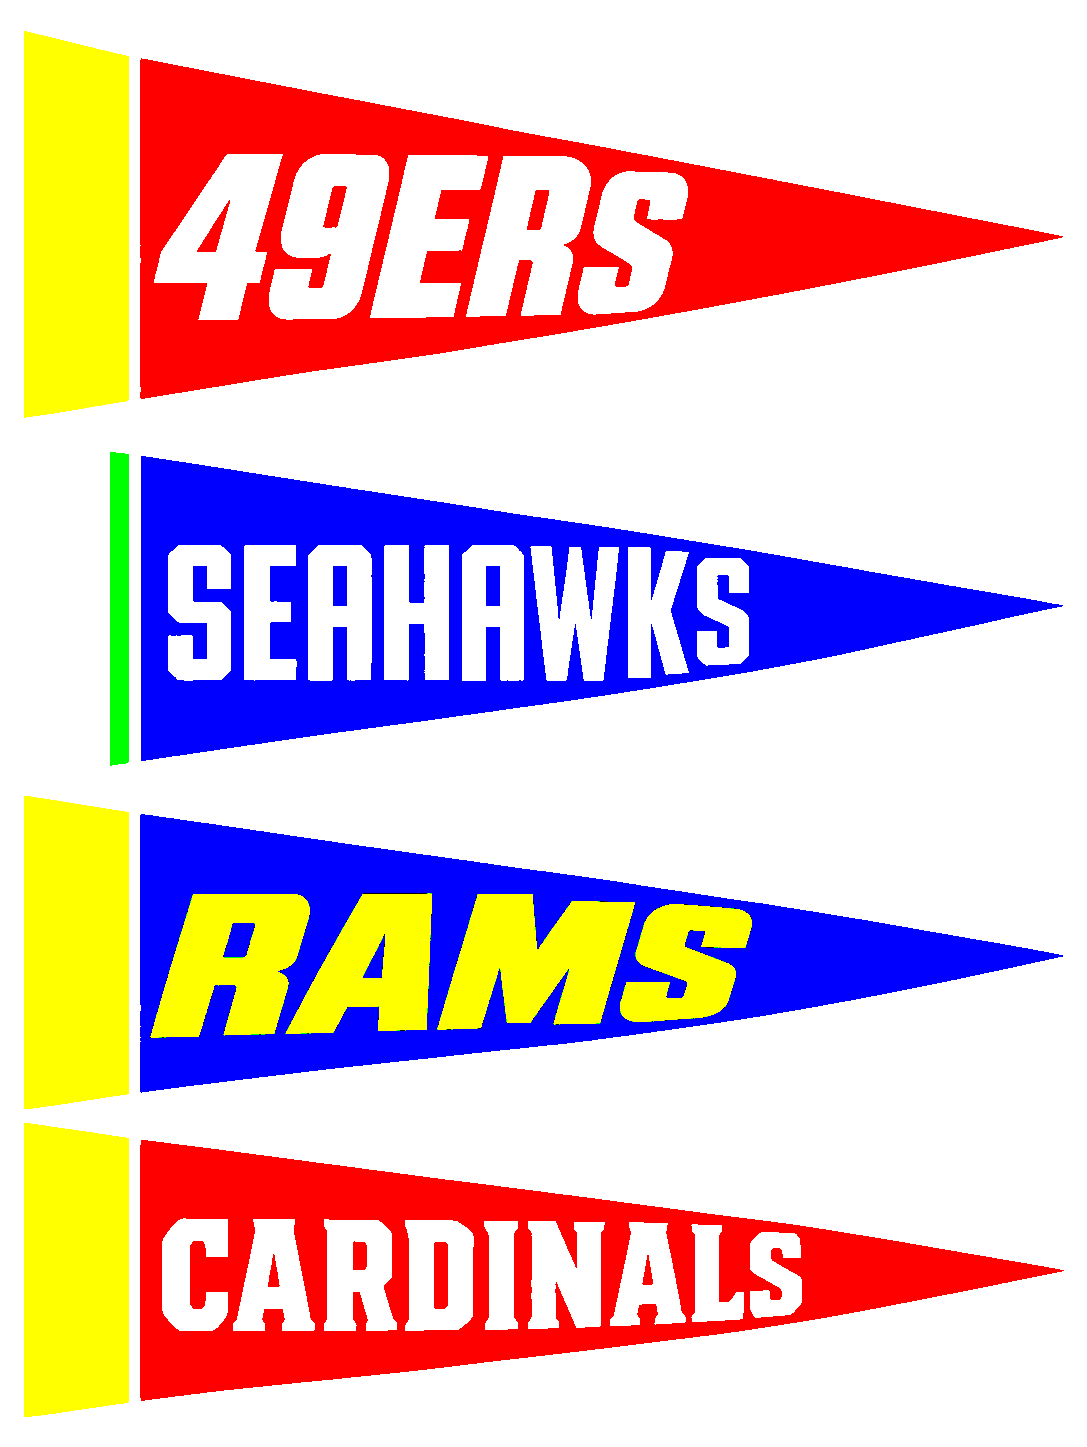
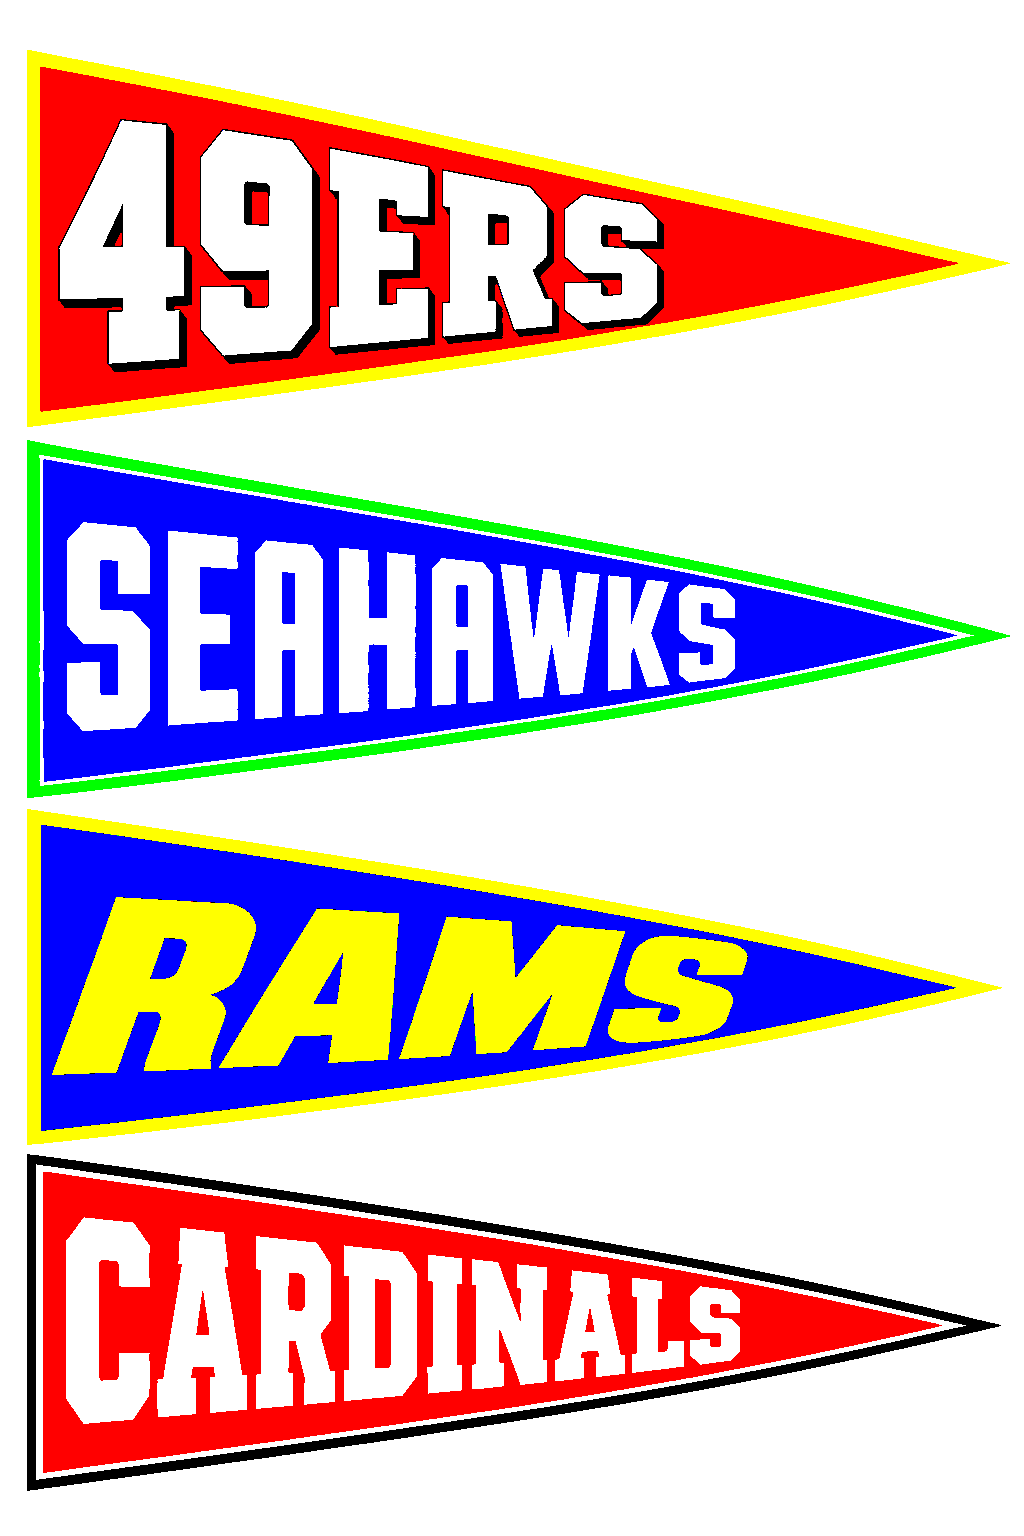
Refine text pennants with vintage lettering and team-colored edging

diff --git a/render_nfl.py b/render_nfl.py
@@ -319,13 +319,13 @@ def load_pennant(abbr: str, style: str = "illustrated") -> Image.Image:
     uniform footprint.
     """
     if style == "text":
-        # Use only the triangular fields, excluding the left hoist bands and
-        # their white separators. Keep the lettering from the source unchanged.
+        # Refined text-only triangles with team-specific lettering and narrow
+        # perimeter piping. There are no separate left hoist bands or blocks.
         boxes = {
-            "SF": (142, 58, 1067, 400),
-            "SEA": (142, 454, 1067, 762),
-            "LAR": (142, 813, 1067, 1092),
-            "ARI": (142, 1139, 1067, 1400),
+            "SF": (27, 49, 1012, 429),
+            "SEA": (27, 439, 1012, 799),
+            "LAR": (27, 809, 1004, 1146),
+            "ARI": (27, 1153, 1004, 1493),
         }
         with Image.open(ASSETS / "text-only-pennants.png") as sheet:
             pennant = sheet.crop(boxes[abbr]).convert("RGBA")
